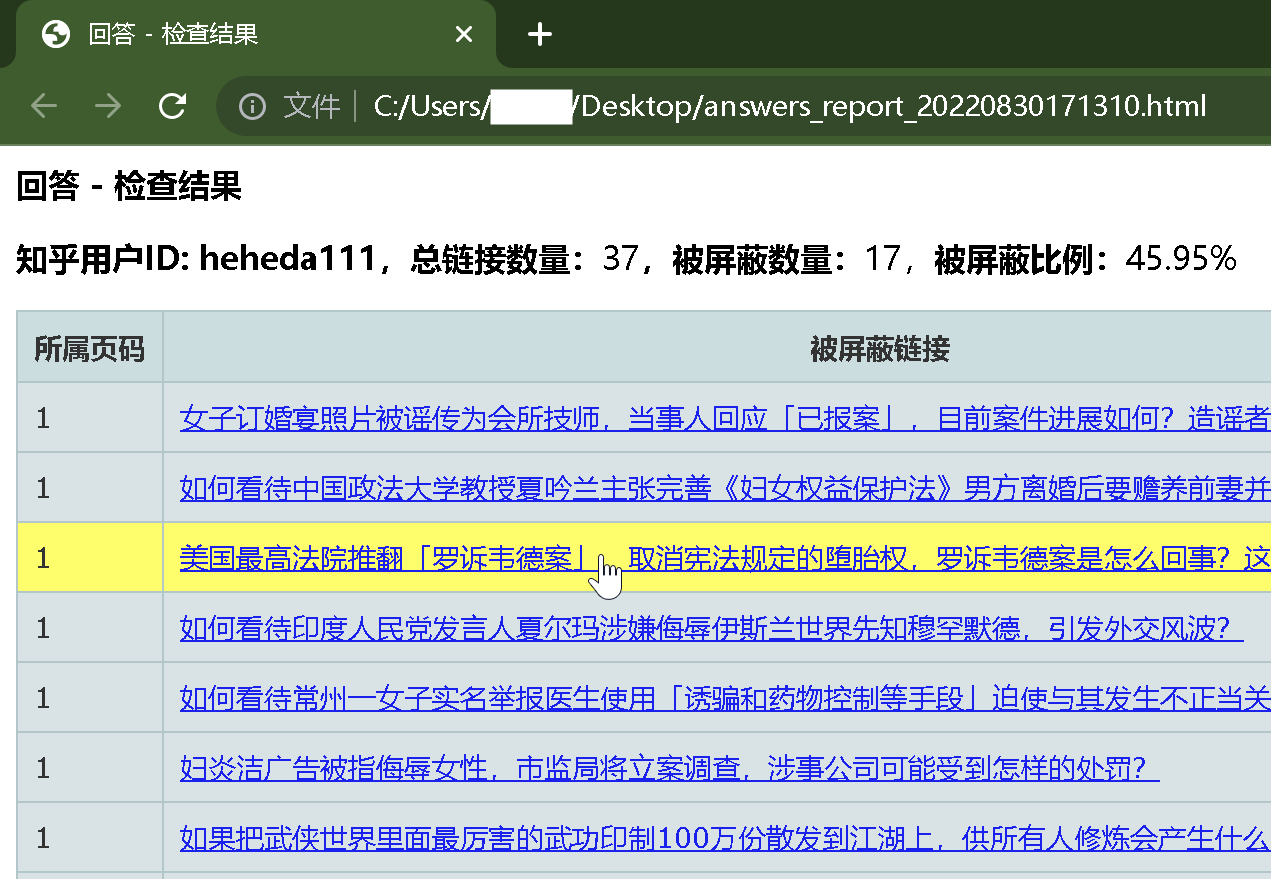
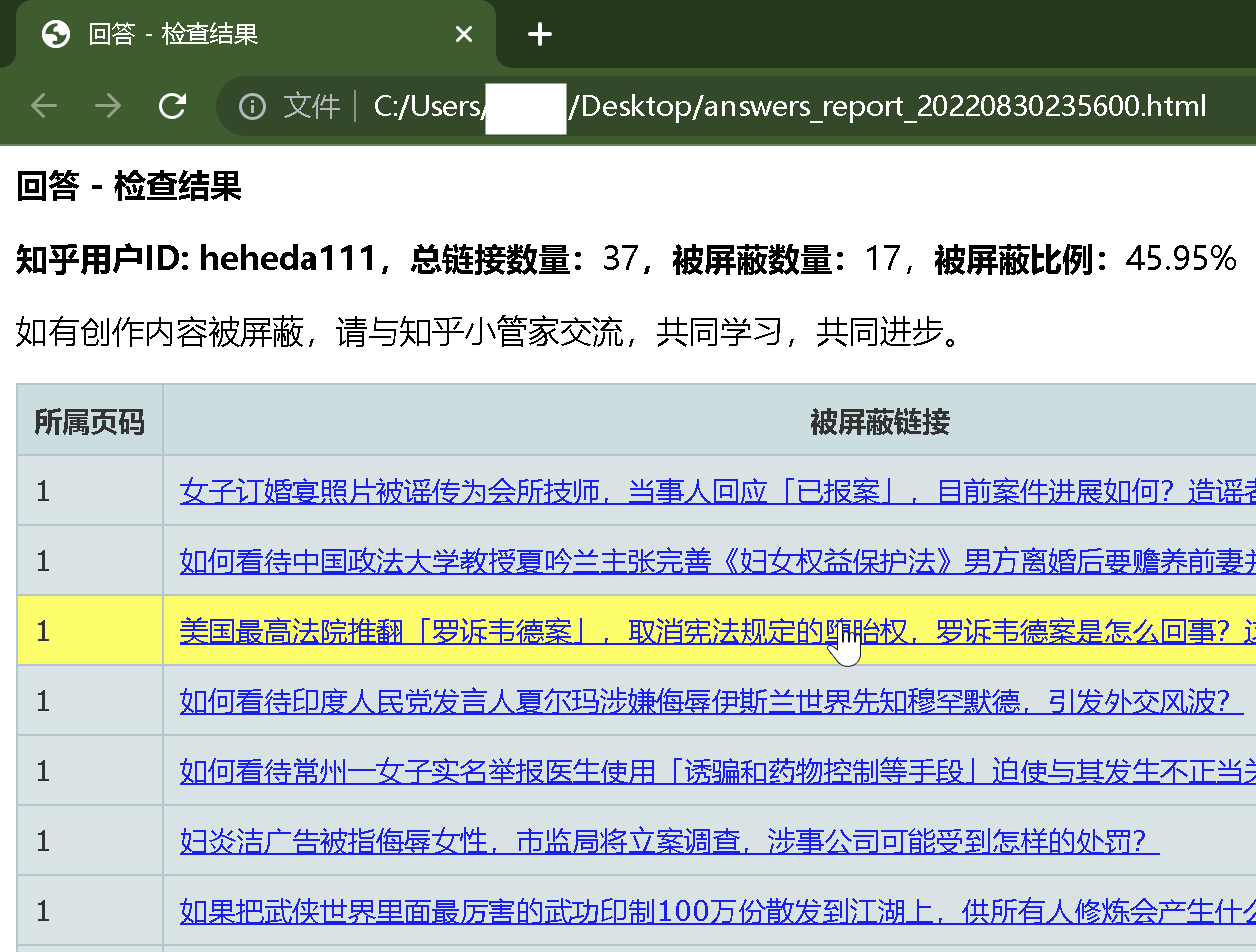
Add files via upload

diff --git a/project/ReportHandler.py b/project/ReportHandler.py
@@ -11,7 +11,7 @@ def outputReportPage(zhihuUserId, pageName, allLinkCount, blockedLinkCount, bloc
     # 组装html
     htmlHeader = '<!DOCTYPE html><html lang="cn"><head><meta charset="utf-8"><title>' + cnPageName +' - 检查结果</title><link rel="stylesheet" href=' + stylePath +'></head><body>'
 
-    summary = '<div><b>' + cnPageName + ' - 检查结果</b><p><b>知乎用户ID: ' + zhihuUserId + '，总链接数量：</b>' + str(allLinkCount) + '<b>，被屏蔽数量：</b>' + str(blockedLinkCount) + '，<b>被屏蔽比例：</b>' + str(blockRate) +  '</div><div><p><table class="hovertable">'
+    summary = '<div><b>' + cnPageName + ' - 检查结果</b><p><b>知乎用户ID: ' + zhihuUserId + '，总链接数量：</b>' + str(allLinkCount) + '<b>，被屏蔽数量：</b>' + str(blockedLinkCount) + '，<b>被屏蔽比例：</b>' + str(blockRate) + '</div><div>如有创作内容被屏蔽，请与知乎小管家交流，共同学习，共同进步。</div><div><p><table class="hovertable">'
 
     table = '<th>所属页码</th><th>被屏蔽链接</th>'
 

diff --git a/project/BrowserHandler.py b/project/BrowserHandler.py
@@ -82,7 +82,6 @@ def launchBrowser():
 
     os.system('chcp 65001')
     folderCmd = chromePath
-    print(folderCmd)
     launchCmd = 'chrome.exe https://www.zhihu.com --remote-debugging-port=' + port + ' --user-data-dir=' + '"' + profilePath + '"'
     subprocess.Popen(launchCmd, shell=True, cwd=folderCmd)
 
